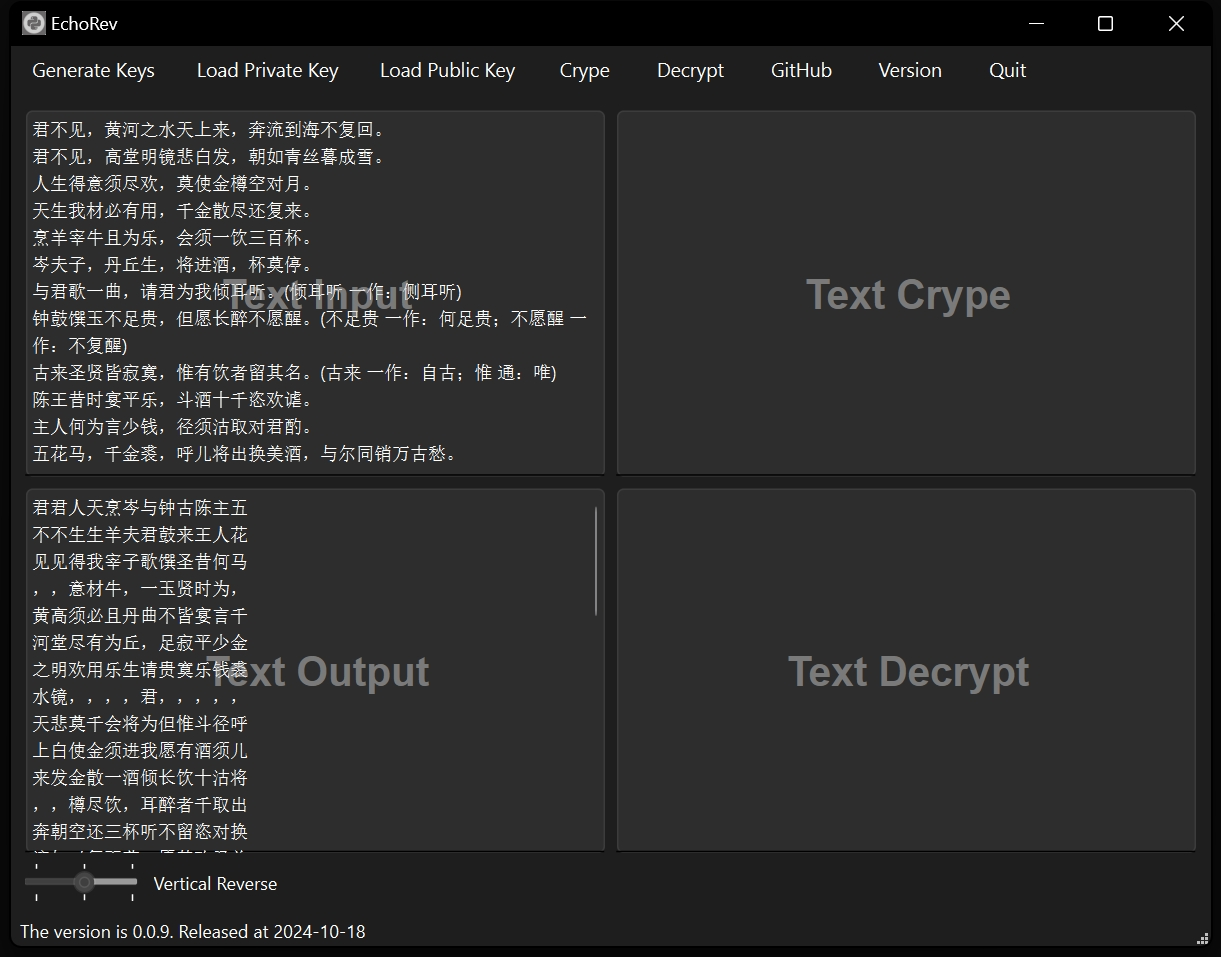
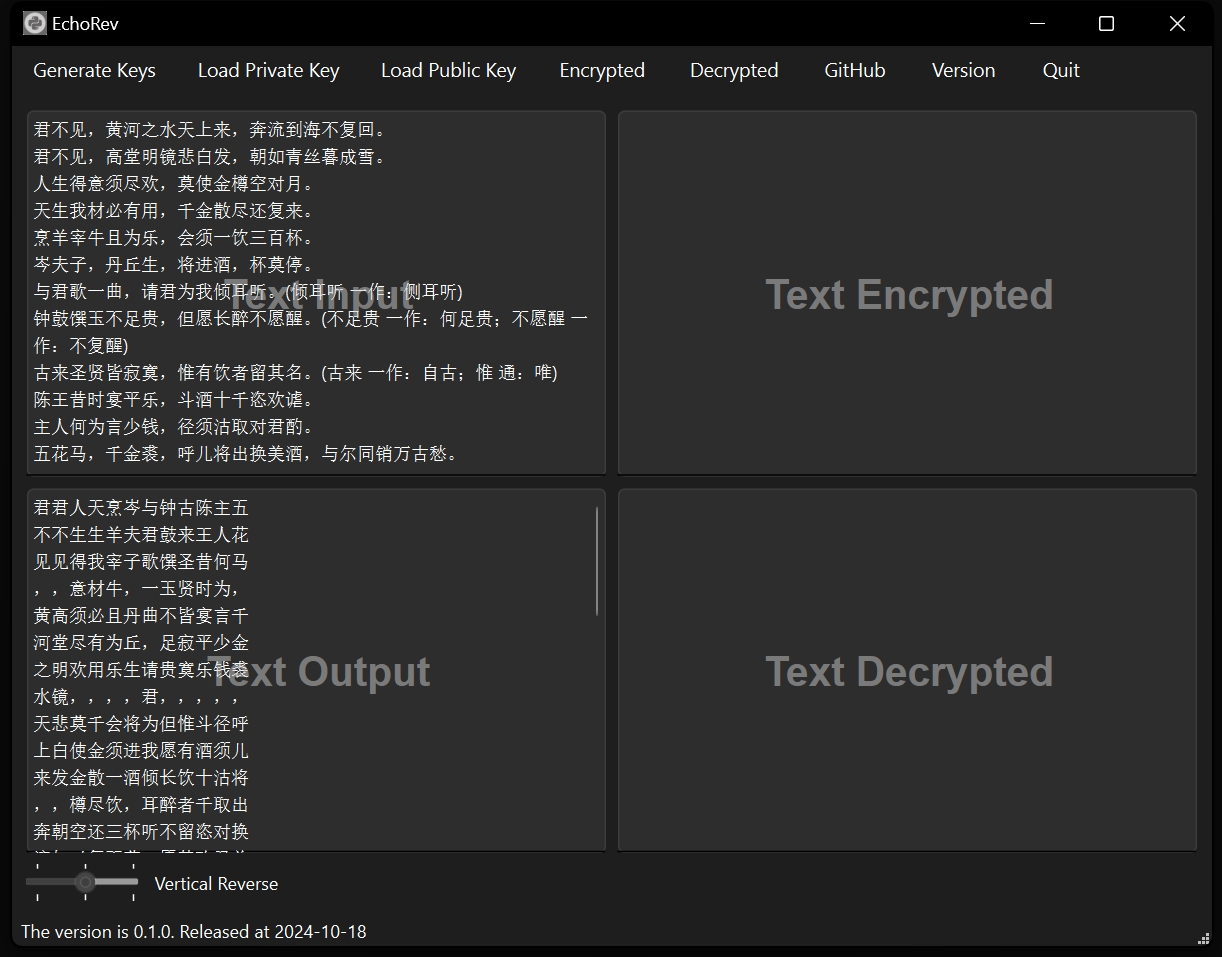
update

diff --git a/echorev/__init__.py b/echorev/__init__.py
@@ -1,8 +1,8 @@
 #!/usr/bin/python3
 # -*- coding: utf-8 -*-
 
-version = '0.0.9'  # 定义版本号
-date = '2024-10-18'  # 定义发布日期
+version = '0.1.1'  # 定义版本号
+date = '2024-10-19'  # 定义发布日期
 
 dpi = 128  # 定义DPI
 # coding:utf-8
@@ -71,10 +71,8 @@ class echorev(QMainWindow):
         self.textbox_input.textChanged.connect(self.Magic)  # 连接文本变化信号到Magic槽
         self.textbox_output = GrowingTextEdit(watermark_text="Text Output")  # 创建输出文本框
 
-        self.textbox_crype = GrowingTextEdit(watermark_text="Text Crype")  # 创建加密文本框
-        # self.textbox_crype.textChanged.connect(self.MagicCrype)  
-        self.textbox_decrypt = GrowingTextEdit(watermark_text="Text Decrypt") # 创建解密文本框
-        # self.textbox_decrypt.textChanged.connect(self.MagicDecrypt)
+        self.textbox_encrypte = GrowingTextEdit(watermark_text="Text Encrypted")  # 创建加密文本框
+        self.textbox_decryptede = GrowingTextEdit(watermark_text="Text Decrypted") # 创建解密文本框
 
         self.slider_label = QLabel('Horizontal Reverse')  # 创建滑块标签
         self.slider = QSlider(Qt.Horizontal)  # 创建水平滑块
@@ -93,9 +91,9 @@ class echorev(QMainWindow):
         self.hbox.addWidget(self.slider_label)  # 将滑块标签添加到水平布局
 
         self.hbox_up.addWidget(self.textbox_input) 
-        self.hbox_up.addWidget(self.textbox_crype)
+        self.hbox_up.addWidget(self.textbox_encrypte)
         self.hbox_down.addWidget(self.textbox_output)
-        self.hbox_down.addWidget(self.textbox_decrypt)
+        self.hbox_down.addWidget(self.textbox_decryptede)
 
         self.vbox.addLayout(self.hbox_up)  # 将水平布局添加到垂直布局
         self.vbox.addLayout(self.hbox_down)
@@ -131,13 +129,13 @@ class echorev(QMainWindow):
         self.actionLoadPublicKey.setObjectName('actionLoadPublicKey')
         self.actionLoadPublicKey.triggered.connect(self.load_public_key)
 
-        self.actionCrype = QAction(u'Crype', self)
-        self.actionCrype.setObjectName('actionCrype')
-        self.actionCrype.triggered.connect(self.MagicCrype)
+        self.actionEncrypted = QAction(u'Encrypted', self)
+        self.actionEncrypted.setObjectName('actionEncrypted')
+        self.actionEncrypted.triggered.connect(self.MagicEncrypted)
 
-        self.actionDecrypt = QAction(u'Decrypt', self)
-        self.actionDecrypt.setObjectName('actionDecrypt')
-        self.actionDecrypt.triggered.connect(self.MagicDecrypt)
+        self.actionDecrypted = QAction(u'Decrypted', self)
+        self.actionDecrypted.setObjectName('actionDecrypted')
+        self.actionDecrypted.triggered.connect(self.MagicDecrypted)
 
         self.menubar = self.menuBar()  # 创建菜单栏
         # self.menuHelp = self.menubar.addMenu('&Help')  # 添加帮助菜单
@@ -146,8 +144,8 @@ class echorev(QMainWindow):
         self.menubar.addAction(self.actionGenerateKeys)  # 将动作添加到菜单栏
         self.menubar.addAction(self.actionLoadPrivateKey)
         self.menubar.addAction(self.actionLoadPublicKey)
-        self.menubar.addAction(self.actionCrype)
-        self.menubar.addAction(self.actionDecrypt)
+        self.menubar.addAction(self.actionEncrypted)
+        self.menubar.addAction(self.actionDecrypted)
         self.menubar.addAction(self.actionWeb)
         self.menubar.addAction(self.actionVersionCheck)
         self.menubar.addAction(self.actionQuit)
@@ -425,7 +423,7 @@ class echorev(QMainWindow):
 
         return encrypted_message
 
-    def decrypt_message(self,encrypted_message):
+    def Decrypted_message(self,encrypted_message):
         # 加载私钥
         # with open('private_key.pem', 'rb') as priv_file:
         with open(self.private_key_path, 'rb') as priv_file:
@@ -435,7 +433,7 @@ class echorev(QMainWindow):
             )
 
         # 使用私钥解密文本
-        decrypted_message = private_key.decrypt(
+        Decrypted_message = private_key.Decrypted(
             encrypted_message,
             padding.OAEP(
                 mgf=padding.MGF1(algorithm=hashes.SHA256()),
@@ -444,16 +442,16 @@ class echorev(QMainWindow):
             )
         )
 
-        return decrypted_message
+        return Decrypted_message
 
 
 
-    def MagicCrype(self):
+    def MagicEncrypted(self):
         if self.public_key_path == '':
             print("Public key file not found.")
             self.load_public_key()
         # 获取要加密的文本
-        plaintext = self.textbox_decrypt.toPlainText()
+        plaintext = self.textbox_decryptede.toPlainText()
 
         if not plaintext:
             print("No text to encrypt.")
@@ -478,8 +476,8 @@ class echorev(QMainWindow):
         #     )
         # )
 
-        # # 将加密后的文本显示在textbox_crype
-        # self.textbox_crype.setPlainText(encrypted_message.hex())
+        # # 将加密后的文本显示在textbox_encrypte
+        # self.textbox_encrypte.setPlainText(encrypted_message.hex())
         # print("Text encrypted successfully.")
 
         # 分块加密
@@ -500,20 +498,20 @@ class echorev(QMainWindow):
         # 将所有加密的小块组合在一起
         encrypted_message = b''.join(encrypted_chunks)
 
-        # 将加密后的文本显示在textbox_crype
-        self.textbox_crype.setPlainText(encrypted_message.hex())
+        # 将加密后的文本显示在textbox_encrypte
+        self.textbox_encrypte.setPlainText(encrypted_message.hex())
 
         print("Text encrypted successfully.")
 
-    def MagicDecrypt(self):
+    def MagicDecrypted(self):
         if self.private_key_path == '':
             print("Private key file not found.")
             self.load_private_key()
         # 获取要解密的密文
-        encrypted_message_hex = self.textbox_crype.toPlainText()
+        encrypted_message_hex = self.textbox_encrypte.toPlainText()
 
         if not encrypted_message_hex:
-            print("No text to decrypt.")
+            print("No text to Decrypted.")
             return
 
         # 将十六进制字符串转换为字节
@@ -533,11 +531,11 @@ class echorev(QMainWindow):
 
         # 分块解密
         max_length = 256  # 对于4096位RSA密钥和OAEP填充，最大输出长度约为512字节
-        decrypted_chunks = []
+        Decrypted_chunks = []
         for i in range(0, len(encrypted_message), max_length):
             chunk = encrypted_message[i:i + max_length]
             try:
-                decrypted_chunk = private_key.decrypt(
+                Decrypted_chunk = private_key.decrypt(
                     chunk,
                     padding.OAEP(
                         mgf=padding.MGF1(algorithm=hashes.SHA256()),
@@ -545,18 +543,18 @@ class echorev(QMainWindow):
                         label=None
                     )
                 )
-                decrypted_chunks.append(decrypted_chunk)
+                Decrypted_chunks.append(Decrypted_chunk)
             except Exception as e:
-                print(f"Decryption failed: {e}")
+                print(f"Decryptedion failed: {e}")
                 return
 
         # 将所有解密的小块组合在一起
-        decrypted_message = b''.join(decrypted_chunks)
+        Decrypted_message = b''.join(Decrypted_chunks)
 
-        # 将解密后的文本显示在textbox_decrypt
-        self.textbox_decrypt.setPlainText(decrypted_message.decode('utf-8'))
+        # 将解密后的文本显示在textbox_decryptede
+        self.textbox_decryptede.setPlainText(Decrypted_message.decode('utf-8'))
 
-        print("Text decrypted successfully.")
+        print("Text Decrypteded successfully.")
 
 
 def main():

diff --git a/README.md b/README.md
@@ -1,28 +1,104 @@
-# EchoRev
+# EchoRev: A Linguistic Tool for Customizing Text Direction and Encryption
 
-a GUI tool to help you reverse your input text.
+EchoRev is a unsophisticated GUI tool designed to assist in reversing text direction and encrypting/decrypting text. This tool is particularly useful for linguists and language enthusiasts who deal with the complexities of different writing systems. Some languages are written from right to left, while others are written from left to right. EchoRev addresses this challenge by providing a flexible solution for converting text direction, hoping it to be a simple tool for related research and language processing.
 
-这个小工具是让你可以正常从左往右输入，然后文字变成从右往左的。就是为了玩。
+Earlier versions have only functions in reversing text direction, but the current version has been updated to provide encryption and decryption functions.
 
-![](https://raw.githubusercontent.com/cycleuser/EchoRev/master/img/GUI.png)
+## Installation
 
-## Installation and Usage
-
+The earlier version of this tool was developed using PyQt5, but the current version has been updated to use PySide6, a Qt binding for Python that is more compatible with modern operating systems.
 
 ```Bash
 pip install requests
 pip install pyside6
 pip install cryptography
 pip install echorev 
-python -c "import echorev;echorev.main()"
 ```
 
 OR adding `--user` to avoid the `EnvironmentError`
 
 ```Bash
-pip install requests --user 
-pip install pyqt5.sip --user     
-pip install pyqt5 --user  
+pip install requests --user  
+pip install pyside6 --user  
+pip install cryptography --user  
 pip install echorev --user  
+```
+
+Then run the following command to start the GUI:
+
+```Bash
 python -c "import echorev;echorev.main()"
 ```
+
+
+## Usage
+
+The GUI has four main functions: reversing text direction, generating public and private keys for encryption and decryption, encrypting text, and decrypting text.
+As shown in the following Figure 1, the GUI is divided into four tabs: "Text Input", "Text Output", "Text Encrypted ", and "Text Decrypted". 
+
+![](./img/01_MainFrame.png)
+#### Figure 1
+
+
+### Text Conversion
+
+Enter the original text in the Text Input section at the top left corner, and then the converted text in the corresponding order will be presented in the Text Output interface at the bottom left corner.
+
+This software supports three conversion methods by default.
+The first one, as shown in Figure 2, is to convert left-to-right text to right-to-left.
+
+![](./img/02_RightToLeft.png)
+#### Figure 2
+
+The second one, as shown in Figure 3, converts horizontal text from left to right to vertical text, the vertical direction is from left to right.
+
+![](./img/03_Vertical_LeftToRight.png)
+#### Figure 3
+
+The third, as shown in Figure 4, conforms to the text direction of traditional Chinese Old Chinese, where the original text is horizontal rows of text from left to right, and is converted into vertical text, the vertical direction is from right to left.
+
+![](./img/04_Vertical_RightToLeft.png)
+#### Figure 4
+
+### Generate Keys
+
+The new version of this software adds text encryption and decryption function.
+
+First of all, the basic function is to generate the private key and public key of RSA, which is an asymmetric encryption algorithm, after generating it, you can decrypt it at any time by keeping your own private key, and the public key can be sent to the other party so that the other party can encrypt the cipher text and send it to themselves.
+Be sure to note that the public key should be sent to the other party, the private key to keep their own, so that the other party encrypted text with the public key, they can use their own private key to view.
+
+If you want to send the encrypted text to the other party, you need the other party's public key to encrypt it.
+
+![](./img/05_Generate_Private_Key_To_Decrypt.png)
+#### Figure 5
+
+
+As shown in Figure 5 is to generate the private key, Figure 6 shows is to generate the public key.
+
+![](./img/06_Generate_Public_Key_To_Crypte.png)
+#### Figure 6
+
+There will be a corresponding prompt after successful key generation.
+
+![](./img/07_Keys_Generated.png)
+#### Figure 7
+
+### Load Keys
+
+In addition to generating keys, you naturally need to be able to load already existing keys, making sure to take care to load the other party's public key for encryption and your own private key for decryption. As shown in Figure 8 and 9.
+
+![](./img/08_Load_Private_Key_To_Decrypt.png)
+#### Figure 8
+
+![](./img/09_Load_Public_Key_To_Crype.png)
+#### Figure 9
+
+### Encryption and Decryption
+
+After ensuring that the public key for encryption and the private key for decryption are loaded correctly, you can click the corresponding button to encrypt and decrypt the text, as shown in Figure 10 and 11.
+
+![](./img/10_Click_To_Crype.png)
+#### Figure 10
+
+![](./img/11_Click_To_Decrypt.png)
+#### Figure 11
